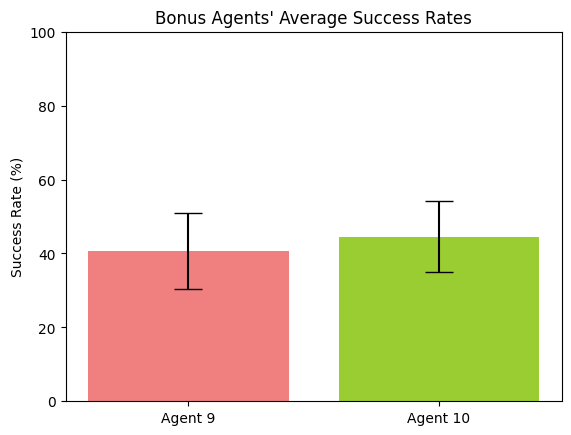
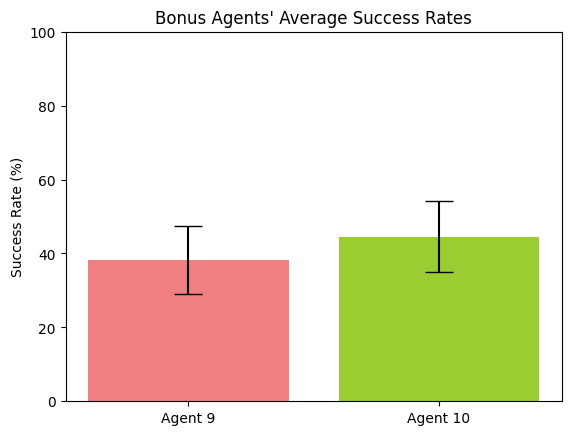
agent 9 heuristics

Changed region(s): [[0.1489, 0.5678, 0.5061, 0.5977], [0.2977, 0.4782, 0.3573, 0.5379], [0.2977, 0.6575, 0.3573, 0.6874]]

diff --git a/game/agents/agent9.py b/game/agents/agent9.py
@@ -6,9 +6,13 @@ from .agent8c import Agent8C
 
 
 class Agent9(Agent8C):
-    def __init__(self, location, graph, predator):
+    def __init__(self, location, graph, predator, A, B, C):
         # initialize the location of the agent, graph, predator here
         super().__init__(location, graph, predator)
+
+        self.A = A
+        self.B = B
+        self.C = C
 
     def move(self, graph, prey, predator):
         """
@@ -38,6 +42,9 @@ class Agent9(Agent8C):
         potential_pred = PredatorED(random.choice(
             self.get_highest_prob_pred_nodes()))
 
+        self.location = self.get_action(graph, potential_prey, potential_pred)
+
+        """
         # MODIFICATION OF A2 CORE LOGIC TO ACCOUNT FOR UNCERTAINTY
         distances = {}
         for nbr in graph.nbrs[self.location]:
@@ -68,6 +75,7 @@ class Agent9(Agent8C):
 
             if potential_predator_distance > 3 or self.pred_beliefs[action] <= 0.4 or self.prey_beliefs[action] >= 0.2:
                 self.location = action
+        """
         return len(self.prev_preys), len(self.prev_preds)
 
     def get_prey_noisy_survey_belief(self, surveyed_node):
@@ -181,3 +189,34 @@ class Agent9(Agent8C):
             else:
                 self.pred_beliefs[key] = value * surveyed_node_new_pred_antibelief / \
                     surveyed_node_update_beliefs_antibelief
+
+    def get_reward(self, prey_distance, pred_distance):
+        return (self.A)*pred_distance**(self.B) + 1/(prey_distance**(self.C)) 
+
+    def get_action(self, graph, predicted_prey, predicted_pred):
+        distances = {}
+        for nbr in graph.nbrs[self.location]:
+            d_prey = self.bfs(graph, predicted_prey.location, nbr)
+            d_pred = self.bfs(graph, predicted_pred.location, nbr)
+            d_prey = d_prey if d_prey > 0 else 100
+            d_pred = d_pred if d_pred > 0 else 100
+            distances[nbr] = (d_prey, d_pred)
+
+        scores = {}
+        for nbr, value in distances.items():
+            # print(type(value[1]))
+            # print(type(value[0]))
+            # print(value[0])
+            # print(value[1])
+            # scores[nbr] = 5*value[1]**(0.4) + 3/(value[0]**(2))
+            # print(type(scores.get(nbr)))
+            # print(scores.get(nbr))
+            scores[nbr] = self.get_reward(value[0], value[1])
+
+        goal_value = max(scores.values())
+        potential_actions = []
+        for nbr, value in scores.items():
+            if value == goal_value:
+                potential_actions.append(nbr)
+
+        return random.choice(potential_actions)

diff --git a/simulation_statistics.py b/simulation_statistics.py
@@ -471,3 +471,39 @@ def visualize(dirname, filename):
     # plt.show()
 
     return 1
+
+import numpy as np 
+def agent9testing():
+    """
+    run simulation n times and get statistics on success
+    """
+    max_wins = 0
+    max_A = 0
+    max_B = 0
+    max_C = 0
+
+    for A in np.linspace(0.0,1.0,50):
+        for B in np.linspace(0.0,1.0,50):
+            for C in np.linspace(0.0,1.0,50):
+                agent_success = []
+                for _ in range(30):
+                    game = Game(50)
+                    game_success, _, _ = game.run_agent_9(A, B, C)
+
+                    # agent caught the prey = 1, predator caught the agent/timeout = 0
+                    agent_success.append(1 if game_success == 1 else 0)
+                
+                wins = sum(agent_success)
+                if wins > max_wins:
+                    max_wins = wins
+                    max_A = A
+                    max_B = B
+                    max_C = C
+                    print("updated: " + str(max_wins))
+                    print(f'updated: {max_wins}, A: {max_A}, B: {max_B}, C: {max_C}')
+
+    print("HELLO")
+    print(wins)
+    print(max_A)
+    print(max_B)
+    print(max_C)

diff --git a/game/game.py b/game/game.py
@@ -628,10 +628,10 @@ class Game:
 
         return status, found_prey, found_pred
 
-    def run_agent_9(self):
+    def run_agent_9(self, A, B, C):
         self.predator = PredatorED(self.predator_location)
         self.agent = Agent9(self.agent_starting_location,
-                            self.graph, self.predator)
+                            self.graph, self.predator, A, B, C)
 
         status = 0
         step_count = 0

diff --git a/main.py b/main.py
@@ -491,3 +491,5 @@ if __name__ == "__main__":
     # labreport_simulation_statistics_agent10()
     simulation_statistics.visualize(
         "data/", "simulation_statistics_bonus.json")
+
+    simulation_statistics.agent9testing()
